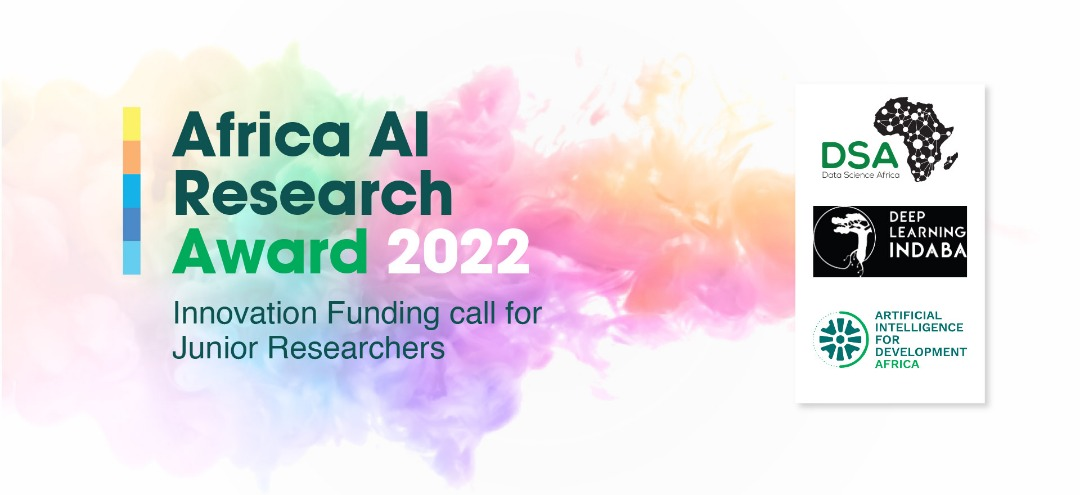
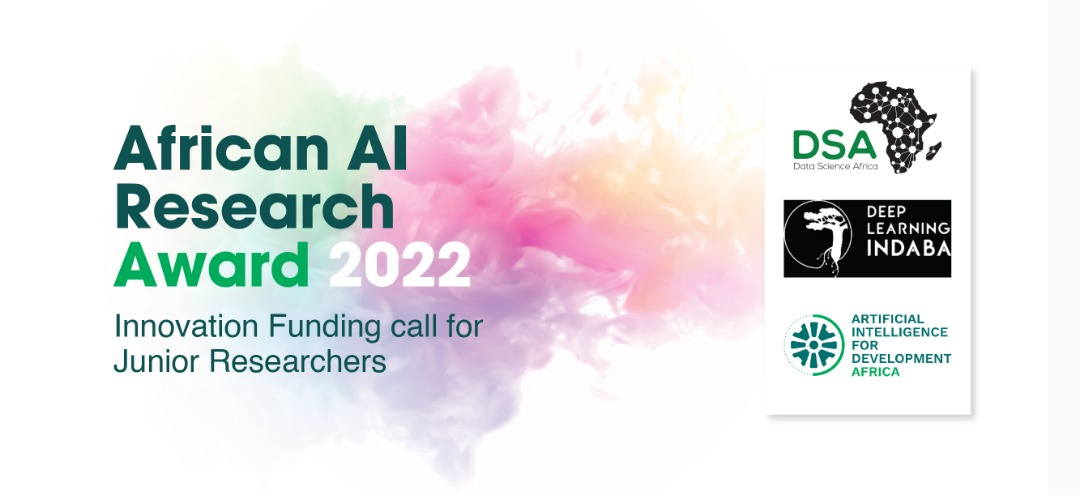
updates on news update and register button

Changed region(s): [[0.0917, 0.1515, 0.55, 0.8485], [0.5806, 0.1515, 0.9167, 0.8485]]

diff --git a/_site/index.html b/_site/index.html
@@ -25,22 +25,37 @@
     
     <div id="dr_hiringtab">
   <div id="dr_hiringtab_tab">
-    <div><a href="#">DSA 2022 Arusha</a></div>
+    <div><a href="#">New Updates</a></div>
   </div>
   <div id="dr_hiringtab_content">
+<!--
     <div id="dr_hiringtab_head">
-      <h3>DSA 2022 Arusha</h3>
-      <p>We are on a mission to change the nation and are looking for other like-minded,
-        high-quality people to join us.</p>
+      <h3>New Updates</h3>
+      
     </div>
-    <h4>Upcoming Event</h4>
-    <ul>
-      <li><a href="#">DSA 2022 Arusha</a></li>
-    </ul>
+-->
+    <h4>Updates</h4>
+      <ul style="width: 250px; white-space: nowrap; overflow: hidden; text-overflow: ellipsis;">
+      
+            
+           
+            <li><a href="/dsa-research-awards-2022/" alt="bbb">African AI Research Award 2022</a></li>
+          
+   
+           
+            <li><a href="#" alt="bbb">DSA 2022 Arusha</a></li>
+          
+
+      </ul> 
+      
+      
+    
+<!--
       <h4>Previous Event</h4>
     <ul>
       <li><a href="#">DSA 2021 Kimberly</a></li>
     </ul>
+-->
   </div>
 </div>
 <div id="dr_hiringtab_overlay" style="display:none"></div>
@@ -285,7 +300,7 @@
 				<div id="owl-main" class="owl-carousel height-md owl-inner-nav owl-ui-lg">
 					<div class="item" style="background-image: url(/assets/img/africa-ai-research-award-2022.jpeg);">
 						<div class="container">
-                            <div class="caption vertical-bottom text-center">
+                            <div class="caption vertical-lower-bottom text-center">
                                 
 							<div class="fadeInDown-3">
 									<a href="/dsa-research-awards-2022/" class="btn btn-large" target="_blank">Register now</a>

diff --git a/_layouts/default.html b/_layouts/default.html
@@ -25,22 +25,33 @@
     
     <div id="dr_hiringtab">
   <div id="dr_hiringtab_tab">
-    <div><a href="#">DSA 2022 Arusha</a></div>
+    <div><a href="#">New Updates</a></div>
   </div>
   <div id="dr_hiringtab_content">
+<!--
     <div id="dr_hiringtab_head">
-      <h3>DSA 2022 Arusha</h3>
-      <p>We are on a mission to change the nation and are looking for other like-minded,
-        high-quality people to join us.</p>
+      <h3>New Updates</h3>
+      
     </div>
-    <h4>Upcoming Event</h4>
-    <ul>
-      <li><a href="#">DSA 2022 Arusha</a></li>
-    </ul>
+-->
+    <h4>Updates</h4>
+      <ul style="width: 250px; white-space: nowrap; overflow: hidden; text-overflow: ellipsis;">
+      {% assign updates = site.data.newupdates %}
+         {% for update in updates %}   
+           
+            <li><a href="{{site.baseurl}}{{update.url}}" alt="bbb">{{update.title}}</a></li>
+          
+{% endfor %}
+      </ul> 
+      
+      
+    
+<!--
       <h4>Previous Event</h4>
     <ul>
       <li><a href="#">DSA 2021 Kimberly</a></li>
     </ul>
+-->
   </div>
 </div>
 <div id="dr_hiringtab_overlay" style="display:none"></div>

diff --git a/_includes/sliderwithcaption.html b/_includes/sliderwithcaption.html
@@ -5,7 +5,7 @@
 				<div id="owl-main" class="owl-carousel height-md owl-inner-nav owl-ui-lg">
 					<div class="item" style="background-image: url({{site.baseurl}}/assets/img/africa-ai-research-award-2022.jpeg);">
 						<div class="container">
-                            <div class="caption vertical-bottom text-center">
+                            <div class="caption vertical-lower-bottom text-center">
                                 
 							<div class="fadeInDown-3">
 									<a href="{{site.baseurl}}/dsa-research-awards-2022/" class="btn btn-large" target="_blank">Register now</a>

diff --git a/assets/css/style.css b/assets/css/style.css
@@ -350,6 +350,11 @@ background: linear-gradient(354deg, rgba(13,133,66,1) 7%, rgba(0,0,0,0.943014705
   vertical-align: bottom;
   padding-bottom: 14vh;
 }
+
+#owl-main .caption.vertical-lower-bottom {
+  vertical-align: bottom;
+  padding-bottom: 2vh;
+}
 #owl-main .caption.text-center {
   padding-left: 10%;
   padding-right: 10%;
@@ -1287,3 +1292,4 @@ strong{
   cursor: pointer;
   z-index: 99;
 }
+
